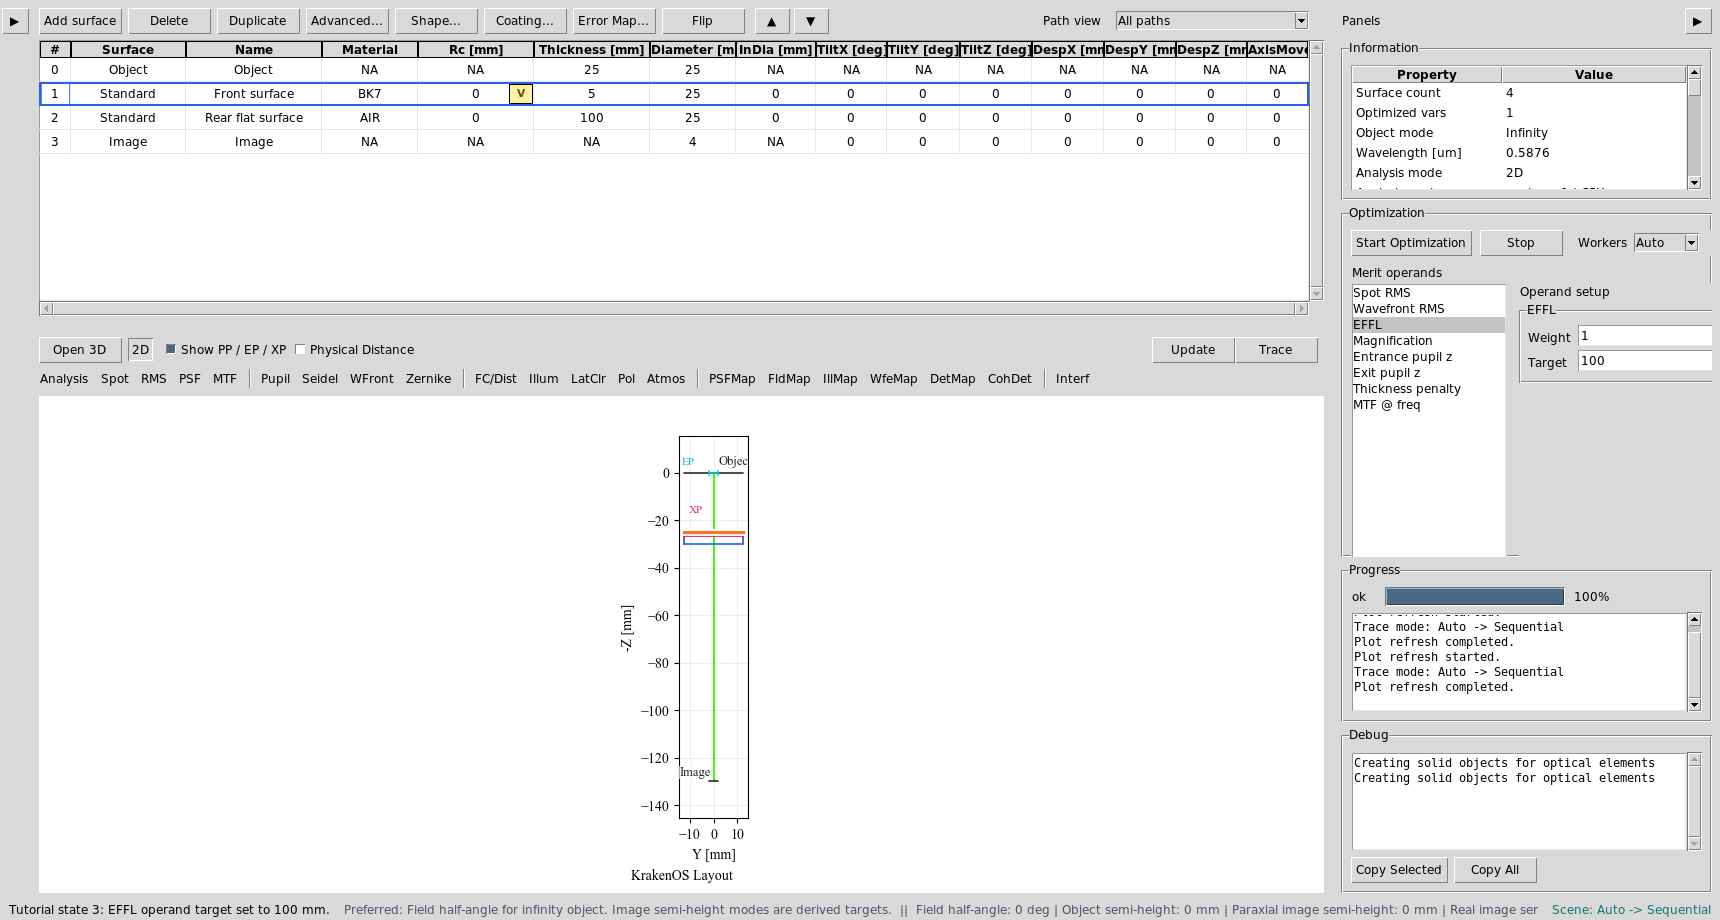
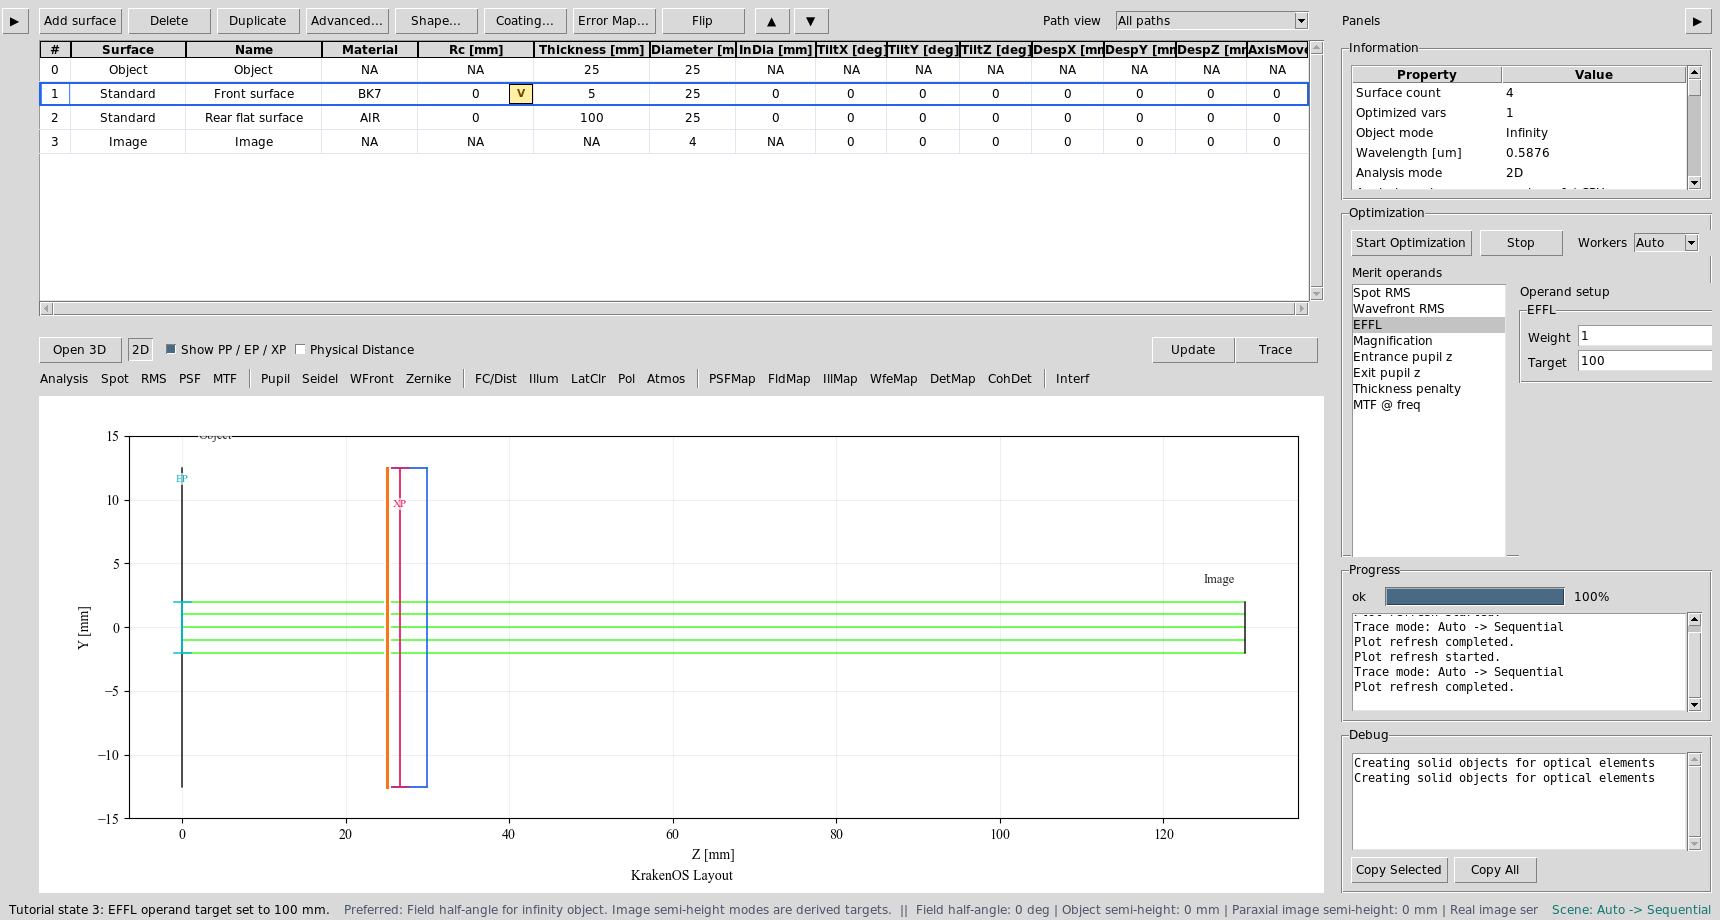
Use horizontal Z axis in PCX tutorial screenshots

diff --git a/KrakenOS/UI/capture_pcx_tutorial_screenshots.py b/KrakenOS/UI/capture_pcx_tutorial_screenshots.py
@@ -58,7 +58,7 @@ def _configure_common(app: KrakenLayoutEditor) -> None:
     app.geometry("1720x920+40+40")
     app.auto_save_plot_var.set(False)
     app.object_mode_var.set("Infinity")
-    app.display_orientation_var.set("Horizontal")
+    app.display_orientation_var.set("Vertical")
     app.wavelength_var.set("0.5876")
     app.ray_count_var.set("5")
     app.ray_height_factor_var.set("0.8")

diff --git a/docs/source/tutorials/pcx_from_plate.rst b/docs/source/tutorials/pcx_from_plate.rst
@@ -33,6 +33,9 @@ The screenshots in this tutorial are generated from the live Tk UI with:
 
    python -m KrakenOS.UI.capture_pcx_tutorial_screenshots
 
+They use ``Orientation = Vertical`` in the UI, which plots optical ``Z`` as the
+horizontal axis and object height ``Y`` as the vertical axis.
+
 Build The Starting Plate
 ------------------------
 
